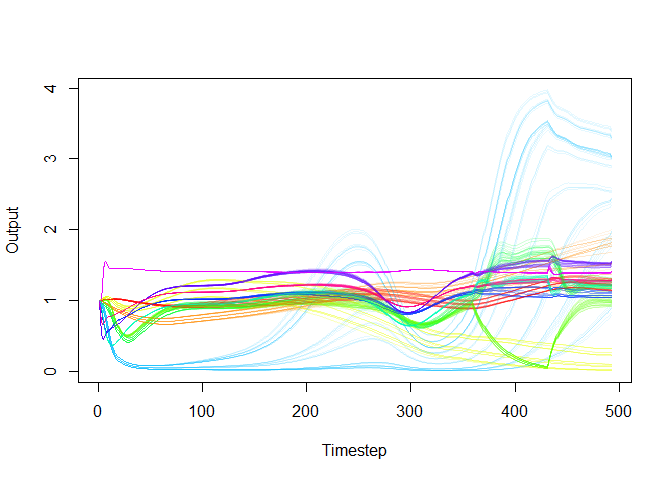
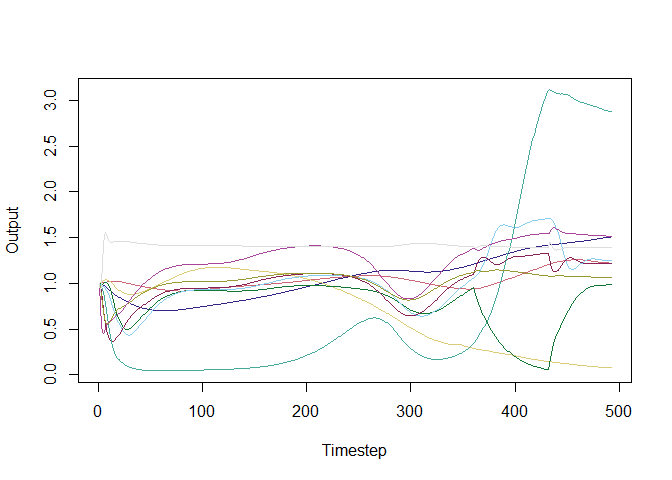
Readme now reflects recent changes to function arguments.

diff --git a/README.md b/README.md
@@ -70,7 +70,7 @@ Run Console. To find out which:
 
 ``` r
 ecocx::get_run_console_link()
-#> [1] "https://github.com/Official-EwE/Eii.Ecopath.Runner/releases/tag/v1.0.35"
+#> [1] "https://github.com/Official-EwE/Eii.Ecopath.Runner/releases/tag/v1.0.40"
 ```
 
 ## Example
@@ -143,13 +143,13 @@ library(future.apply)
 plan(multisession)
 
 ##execute the model repeatedly according to the design!
-cx_table=run_ecosim_experiment(design_mc,xml_model,factor_set,ewe_link,paste0(tempdir(),"/mctest"),parallel=T)
+cx_table=run_ecosim_experiment(design_mc,xml_model,factor_set,m,ewe_link,paste0(tempdir(),"/mctest"),parallel=T)
 
 ##obtain biomasses
 df_cx=get_ecosim_cx_biomass(cx_table, m,relative=T)
 
 ##plot the 50 runs. One line for each run and species group, and colors are species groups.
-plot_all_runs(df_cx,alpha=0.1)
+plot_ecosim_all_runs(df_cx)
 ```
 
 <img src="man/figures/README-example-1.png" alt="" width="50%" />
